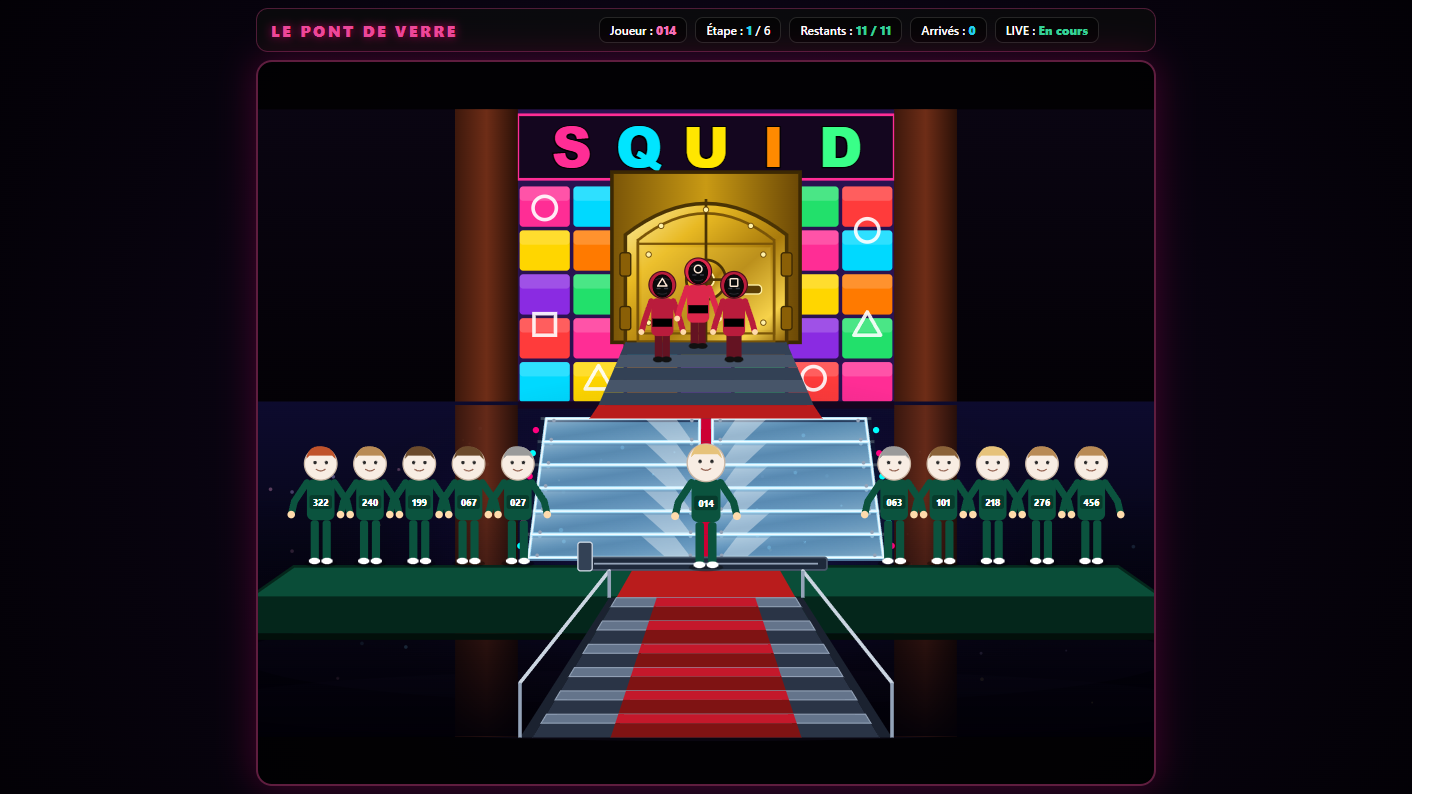
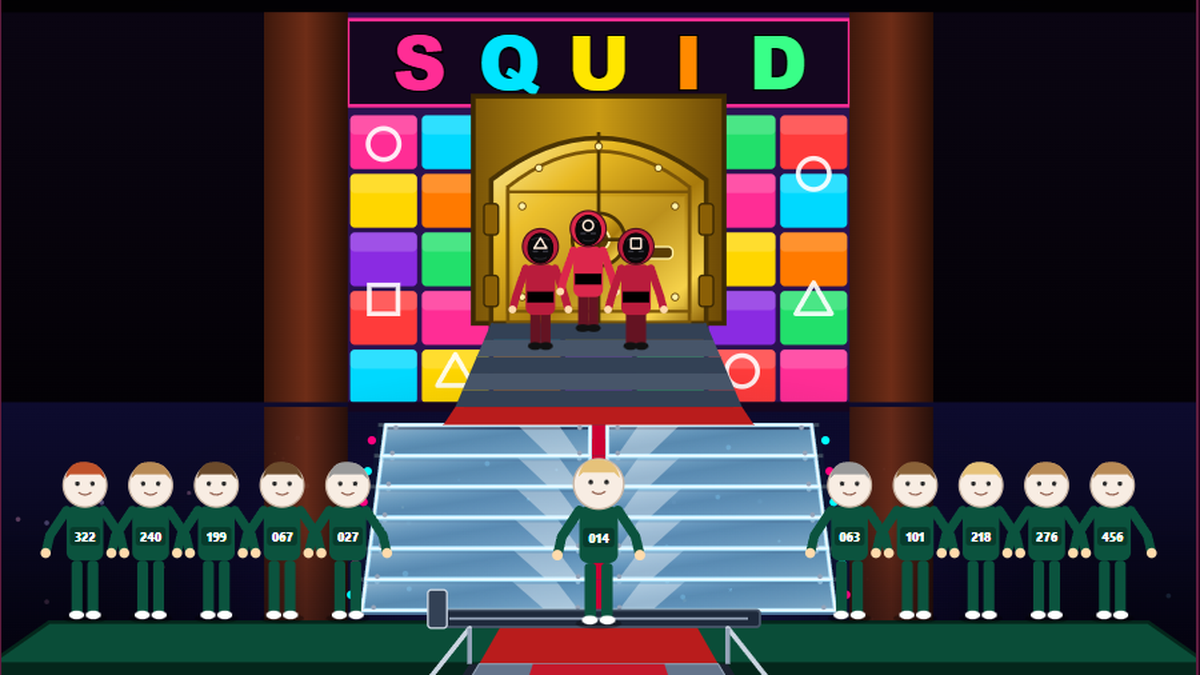
Mise à jour des captures de la vitrine
Recadre les aperçus des jeux concernés et supprime les anciennes illustrations obsolètes.

diff --git a/accueil.html b/accueil.html
@@ -981,10 +981,10 @@
                 <a class="game-card" data-game-id="/bobo-pusher.html" href="/bobo-pusher.html"><span class="game-number">NOUVEAU / LIVE</span><img loading="lazy" decoding="async" fetchpriority="low" class="game-visual custom-game-image" src="/images-vitrine/bobo-pusher.png" alt="Aperçu de Bobo Pusher et de son Top 3"><h3>Bobo Pusher</h3><p>Le direct fait tomber des pièces à l’effigie des joueurs, avec gorille animé et classement des gagnants.</p><span class="game-launch">JOUER ↗</span></a>
                 <a class="game-card" data-game-id="/coin-pusher-2000.html" href="/coin-pusher-2000.html"><span class="game-number">NOUVEAU / LIVE</span><img loading="lazy" decoding="async" fetchpriority="low" class="game-visual custom-game-image" src="/images-vitrine/coin-pusher-2000.png" alt="Capture de la machine 3D Coin Pusher 2000"><h3>Coin Pusher 2000</h3><p>La version 3D personnalisée de Coin Pusher 2000, avec connexion TikTok et pièces à l’effigie des viewers.</p><span class="game-launch">JOUER ↗</span></a>
                 <a class="game-card" data-game-id="/araignee.html" href="/araignee.html"><span class="game-number">NOUVEAU / LIVE</span><img loading="lazy" decoding="async" fetchpriority="low" class="game-visual game-art" src="/images-vitrine/araignee.png" alt="Capture de l’arène désertique et de l’araignée cybernétique"><h3>Araignée Cybernétique</h3><p>Rejoins la team des drones et combats le boss araignée dans un désert vivant.</p><span class="game-launch">JOUER ↗</span></a>
-                <a class="game-card" data-game-id="/apex-formula.html" href="/apex-formula.html"><span class="game-number">NOUVEAU / LIVE</span><img loading="lazy" decoding="async" fetchpriority="low" class="game-visual game-art" src="/images-vitrine/apex-formula.jpg" alt="Apex Formula : quatre voitures en course, chacune avec sa mini-carte et sa vitesse"><h3>Apex Formula</h3><p>Rejoins la course avec « go », accélère avec les cadeaux et suis jusqu’à quatre voitures à l’écran.</p><span class="game-launch">JOUER ↗</span></a>
+                <a class="game-card" data-game-id="/apex-formula.html" href="/apex-formula.html"><span class="game-number">NOUVEAU / LIVE</span><img loading="lazy" decoding="async" fetchpriority="low" class="game-visual game-art" src="/images-vitrine/apex-formula.jpg" alt="Apex Formula : une voiture en course sur le circuit"><h3>Apex Formula</h3><p>Rejoins la course avec « go », accélère avec les cadeaux et suis jusqu’à quatre voitures à l’écran.</p><span class="game-launch">JOUER ↗</span></a>
                 <a class="game-card" data-game-id="/rallye-neon.html" href="/rallye-neon.html"><span class="game-number">NOUVEAU / LIVE</span><img loading="lazy" decoding="async" fetchpriority="low" class="game-visual game-art" src="/images-vitrine/rallye-neon.png" alt="Circuit automobile urbain du Rallye Néon avec six voitures sur la grille"><h3>Rallye Néon</h3><p>Écris « go », double tes adversaires avec les cadeaux dès 1 pièce et choisis parmi trois circuits.</p><span class="game-launch">JOUER ↗</span></a>
                 <a class="game-card" data-game-id="/city-hunter-tiktok.html" href="/city-hunter-tiktok.html"><span class="game-number">NOUVEAU / LIVE</span><img loading="lazy" decoding="async" fetchpriority="low" class="game-visual game-art" src="/images-vitrine/city-hunter-tiktok.jpg" alt="City Hunter, duel TikTok dans une ville nocturne"><h3>City Hunter — TikTok Live Battle</h3><p>Choisis ton camp, attaque avec des cadeaux et remporte des étoiles dans le portefeuille Griffon Arcade.</p><span class="game-launch">JOUER ↗</span></a>
-                <a class="game-card" data-game-id="/pokefight-live.html" href="/pokefight-live.html"><span class="game-number">NOUVEAU / TIKTOK LIVE</span><img loading="lazy" decoding="async" fetchpriority="low" class="game-visual game-art" src="/images-vitrine/pokefight-live.png" alt="Capture de PokéFight Live sans panneau de configuration"><h3>PokéFight x TikTok Live</h3><p>Connecte ton live, capture des créatures avec les cadeaux et gagne des étoiles dans ton portefeuille Griffon Arcade.</p><span class="game-launch">JOUER ↗</span></a>
+                <a class="game-card" data-game-id="/pokefight-live.html" href="/pokefight-live.html"><span class="game-number">NOUVEAU / TIKTOK LIVE</span><img loading="lazy" decoding="async" fetchpriority="low" class="game-visual game-art" src="/images-vitrine/pokefight-live.png" alt="Pokémon sur leur arrière-plan, sans commandes ni panneau"><h3>PokéFight x TikTok Live</h3><p>Connecte ton live, capture des créatures avec les cadeaux et gagne des étoiles dans ton portefeuille Griffon Arcade.</p><span class="game-launch">JOUER ↗</span></a>
                 <a class="game-card" data-game-id="/grand-prix-pokemon.html" href="/grand-prix-pokemon.html"><span class="game-number">NOUVEAU / TIKTOK LIVE</span><img loading="lazy" decoding="async" fetchpriority="low" class="game-visual game-art" src="/images-vitrine/grand-prix-pokemon.png" alt="Capture de Grand Prix Poké sans panneau de configuration"><h3>Grand Prix Poké</h3><p>Choisis un Pokémon avec 1, 2 ou 3, puis fais-le courir avec les cadeaux TikTok.</p><span class="game-launch">JOUER ↗</span></a>
                 <a class="game-card" data-game-id="/coffre-incandescent.html" href="/coffre-incandescent.html"><span class="game-number">NOUVEAU / LIVE</span><img loading="lazy" decoding="async" fetchpriority="low" class="game-visual game-art" src="/images-vitrine/coffre-incandescent.png" alt="Capture du Coffre Incandescent sans panneau de configuration"><h3>Coffre Blindé TikTok</h3><p>Les pièces TikTok et étoiles RUN font progresser les paliers du coffre.</p><span class="game-launch">JOUER ↗</span></a>
                 <a class="game-card" data-game-id="/quartier-des-veilleurs.html" href="/quartier-des-veilleurs.html"><span class="game-number">NOUVEAU / LIVE</span><img loading="lazy" decoding="async" fetchpriority="low" class="game-visual game-art" src="/images-vitrine/quartier-des-veilleurs.webp" alt="Capture du Quartier des Veilleurs sans panneau de configuration"><h3>Le Quartier des Veilleurs</h3><p>Les cadeaux lancent des surprises chez tes amis et leur attribuent des étoiles d’arcade.</p><span class="game-launch">JOUER ↗</span></a>
@@ -994,7 +994,7 @@
                 <a class="game-card" href="/plinko.html"><span class="game-number">03 / CHANCE</span><svg class="game-visual game-image-placeholder game-art" viewBox="0 0 360 150" aria-hidden="true"><defs><linearGradient id="plinko-bg" x2="0" y2="1"><stop stop-color="#081728"/><stop offset="1" stop-color="#123a56"/></linearGradient><radialGradient id="plinko-ball"><stop stop-color="#fff"/><stop offset=".35" stop-color="#c9fbff"/><stop offset=".7" stop-color="#27d9ff"/><stop offset="1" stop-color="#2970ff"/></radialGradient></defs><rect width="360" height="150" fill="url(#plinko-bg)"/><path d="M84 12v105m32-105v105m32-105v105m32-105v105m32-105v105m32-105v105m32-105v105" stroke="#9cecff" stroke-opacity=".17" stroke-width="2"/><g fill="#86e8ff"><circle cx="100" cy="30" r="4"/><circle cx="132" cy="30" r="4"/><circle cx="164" cy="30" r="4"/><circle cx="196" cy="30" r="4"/><circle cx="228" cy="30" r="4"/><circle cx="260" cy="30" r="4"/><circle cx="84" cy="53" r="4"/><circle cx="116" cy="53" r="4"/><circle cx="148" cy="53" r="4"/><circle cx="180" cy="53" r="4"/><circle cx="212" cy="53" r="4"/><circle cx="244" cy="53" r="4"/><circle cx="276" cy="53" r="4"/><circle cx="100" cy="76" r="4"/><circle cx="132" cy="76" r="4"/><circle cx="164" cy="76" r="4"/><circle cx="196" cy="76" r="4"/><circle cx="228" cy="76" r="4"/><circle cx="260" cy="76" r="4"/></g><circle cx="187" cy="22" r="12" fill="url(#plinko-ball)"/><path d="M58 124h48v20H58zm48 0h48v20h-48zm48 0h48v20h-48zm48 0h48v20h-48zm48 0h48v20h-48z" fill="#0b1324" stroke="#47ddff" stroke-opacity=".5"/><text x="76" y="138" fill="#76dfff" font-size="10">x2</text><text x="170" y="138" fill="#fff" font-size="10">x10</text><text x="268" y="138" fill="#76dfff" font-size="10">x2</text></svg><h3>Gryphon Plinko</h3><p>Laisse tomber la bille et découvre où elle va atterrir.</p><span class="game-launch">JOUER ↗</span></a>
                 <a class="game-card" href="/aquarium-tiktok-live.html"><span class="game-number">04 / LIVE</span><svg class="game-visual game-image-placeholder game-art" viewBox="0 0 360 150" aria-hidden="true"><defs><linearGradient id="aqua-bg" x2="0" y2="1"><stop stop-color="#071f38"/><stop offset=".55" stop-color="#087b9a"/><stop offset="1" stop-color="#071a2d"/></linearGradient><linearGradient id="fish-fill" x2="0" y2="1"><stop stop-color="#b9fff2"/><stop offset="1" stop-color="#13b7d0"/></linearGradient></defs><rect width="360" height="150" fill="url(#aqua-bg)"/><path d="M0 35q40-13 80 0t80 0 80 0 120 0M0 47q40-13 80 0t80 0 80 0 120 0" fill="none" stroke="#a8f8ff" stroke-opacity=".28" stroke-width="2"/><g fill="#c5f5ff" opacity=".55"><circle cx="42" cy="72" r="3"/><circle cx="60" cy="91" r="2"/><circle cx="302" cy="67" r="3"/><circle cx="277" cy="91" r="2"/></g><path d="M70 83q29-25 60 0-31 25-60 0m60 0-18-15v30zm103-31q22-18 45 0-23 19-45 0m45 0-13-11v22z" fill="url(#fish-fill)"/><circle cx="83" cy="81" r="2.5" fill="#073248"/><circle cx="240" cy="50" r="2" fill="#073248"/><path d="M0 130q60-20 120 0t120 0 120 0v20H0z" fill="#062735"/><path d="M34 150q8-35 17 0m-4 0q12-51 24 0m224 0q7-34 15 0m-3 0q12-48 24 0" fill="none" stroke="#43e0a0" stroke-width="5"/><path d="M318 0v150" stroke="#d5fcff" stroke-opacity=".22" stroke-width="3"/></svg><h3>Aquarium Live</h3><p>Plonge dans un aquarium interactif au rythme du live.</p><span class="game-launch">JOUER ↗</span></a>
                 <a class="game-card" href="/coin-pusher-tiktok.html"><span class="game-number">05 / ARCADE</span><svg class="game-visual game-image-placeholder game-art" viewBox="0 0 360 150" aria-hidden="true"><defs><linearGradient id="pusher-bg" x2="0" y2="1"><stop stop-color="#17142e"/><stop offset="1" stop-color="#3b1649"/></linearGradient><radialGradient id="pusher-coin"><stop stop-color="#fff0a0"/><stop offset=".45" stop-color="#f8bd42"/><stop offset="1" stop-color="#9a4a28"/></radialGradient></defs><rect width="360" height="150" fill="url(#pusher-bg)"/><rect x="48" y="13" width="264" height="122" rx="12" fill="#211b38" stroke="#ad8fff" stroke-opacity=".7" stroke-width="3"/><rect x="64" y="25" width="232" height="83" rx="6" fill="#090f20"/><path d="M67 81h226" stroke="#7bf4ff" stroke-opacity=".6" stroke-width="3"/><g fill="url(#pusher-coin)" stroke="#ffe8a0" stroke-width="2"><circle cx="105" cy="70" r="13"/><circle cx="137" cy="58" r="13"/><circle cx="170" cy="74" r="13"/><circle cx="203" cy="57" r="13"/><circle cx="236" cy="72" r="13"/><circle cx="268" cy="54" r="13"/><circle cx="122" cy="91" r="12"/><circle cx="186" cy="92" r="12"/><circle cx="251" cy="92" r="12"/></g><path d="M75 111h210l-18 15H93z" fill="#aab4d2" stroke="#effaff" stroke-opacity=".6" stroke-width="2"/><circle cx="91" cy="126" r="5" fill="#ff4fa6"/><circle cx="269" cy="126" r="5" fill="#66f5ff"/><path d="M77 18v88m206-88v88" stroke="#fff" stroke-opacity=".12"/></svg><h3>Pousse les monstres</h3><p>Lâche des pièces, regarde les petits monstres tomber et pousse-les pour gagner des points.</p><span class="game-launch">JOUER ↗</span></a>
-                <a class="game-card" href="/jeu-foot-tiktok.html"><span class="game-number">06 / DÉFI</span><svg class="game-visual game-image-placeholder game-art" viewBox="0 0 360 150" aria-hidden="true"><defs><linearGradient id="field-bg" x2="0" y2="1"><stop stop-color="#0b402e"/><stop offset="1" stop-color="#071b1a"/></linearGradient><radialGradient id="stadium-light"><stop stop-color="#baffcd" stop-opacity=".75"/><stop offset="1" stop-color="#4cff9a" stop-opacity="0"/></radialGradient></defs><rect width="360" height="150" fill="url(#field-bg)"/><ellipse cx="244" cy="38" rx="140" ry="90" fill="url(#stadium-light)"/><path d="M0 121h360M180 0v150" stroke="#d2ffe0" stroke-opacity=".3" stroke-width="2"/><path d="M206 36h108v72H206zM222 49h80v59h-80z" fill="none" stroke="#e6fff1" stroke-opacity=".8" stroke-width="3"/><path d="M232 49v59m26-59v59m26-59v59" stroke="#ddffeb" stroke-opacity=".35"/><ellipse cx="113" cy="121" rx="45" ry="9" fill="#020b0a" opacity=".55"/><circle cx="111" cy="99" r="24" fill="#f3f6ed" stroke="#a5bba9" stroke-width="2"/><path d="m111 84 10 6-3 11h-12l-5-9zm-14 12 9 5-2 11m17-17 10 0m-29 8-12 8m31-8 8 8" fill="#17241e" stroke="#17241e" stroke-width="2"/><path d="M143 91q29-24 57-30" fill="none" stroke="#c1ff61" stroke-width="3" stroke-dasharray="5 7"/><path d="M15 18h42M15 18v25m330-25h-42m42 0v25" stroke="#caffd9" stroke-opacity=".3" stroke-width="2"/></svg><h3>Le Coup de Pied</h3><p>Vise juste et marque le meilleur score du live.</p><span class="game-launch">JOUER ↗</span></a>
+                <a class="game-card" data-game-id="/jeu-foot-tiktok.html" href="/jeu-foot-tiktok.html"><span class="game-number">06 / DÉFI</span><img loading="lazy" decoding="async" fetchpriority="low" class="game-visual custom-game-image game-art" src="/images-vitrine/coup-de-pied.webp" alt="Le nouveau joueur du Coup de Pied face au ballon sur le terrain"><h3>Le Coup de Pied</h3><p>Vise juste et marque le meilleur score du live.</p><span class="game-launch">JOUER ↗</span></a>
                 <a class="game-card" href="/coffres"><span class="game-number">07 / TRÉSOR</span><svg class="game-visual game-image-placeholder game-art" viewBox="0 0 360 150" aria-hidden="true"><defs><linearGradient id="chest-bg" x2="0" y2="1"><stop stop-color="#15122a"/><stop offset="1" stop-color="#3b241a"/></linearGradient><linearGradient id="chest-gold" x2="0" y2="1"><stop stop-color="#ffe7a0"/><stop offset=".45" stop-color="#c9852e"/><stop offset="1" stop-color="#603019"/></linearGradient><radialGradient id="treasure-light"><stop stop-color="#ffd56b" stop-opacity=".7"/><stop offset="1" stop-color="#ff9d32" stop-opacity="0"/></radialGradient></defs><rect width="360" height="150" fill="url(#chest-bg)"/><ellipse cx="184" cy="80" rx="145" ry="96" fill="url(#treasure-light)"/><path d="M0 127q90-32 180 0t180 0v23H0z" fill="#19131a"/><g transform="translate(73 46)"><path d="M0 38Q4 2 48 2t48 36v47H0z" fill="#674021" stroke="#e4b25d" stroke-width="4"/><path d="M-5 36h106v21H-5z" fill="url(#chest-gold)" stroke="#ffe4a0" stroke-width="3"/><path d="M42 37h16v32H42z" fill="#f4d586"/><circle cx="50" cy="47" r="3" fill="#49301b"/><path d="M6 68h84v13H6z" fill="#8c5727"/></g><g transform="translate(205 54) scale(.76)"><path d="M0 38Q4 2 48 2t48 36v47H0z" fill="#392d68" stroke="#d1b4ff" stroke-width="4"/><path d="M-5 36h106v21H-5z" fill="#9477ce" stroke="#e4d1ff" stroke-width="3"/><path d="M42 37h16v32H42z" fill="#f5dc95"/><circle cx="50" cy="47" r="3" fill="#49301b"/></g><path d="m164 31 4 12m-24 2 9 9m41-21-4 12m22 6-10 9" stroke="#fff0ba" stroke-width="3" stroke-linecap="round"/></svg><h3>Les Coffres</h3><p>Choisis ton coffre, évite le piège et découvre le trésor.</p><span class="game-launch">JOUER ↗</span></a>
                 <a class="game-card" href="/inedexd.html"><span class="game-number">08 / MYSTÈRE</span><svg class="game-visual game-image-placeholder game-art" viewBox="0 0 360 150" aria-hidden="true"><defs><linearGradient id="boxes-bg" x2="0" y2="1"><stop stop-color="#09172d"/><stop offset="1" stop-color="#20123a"/></linearGradient><linearGradient id="box-face" x2="0" y2="1"><stop stop-color="#4973a3"/><stop offset="1" stop-color="#172642"/></linearGradient><radialGradient id="box-core"><stop stop-color="#fff"/><stop offset=".3" stop-color="#aef8ff"/><stop offset="1" stop-color="#40aaff" stop-opacity="0"/></radialGradient></defs><rect width="360" height="150" fill="url(#boxes-bg)"/><path d="M0 122 180 82l180 40v28H0z" fill="#11182a"/><g stroke="#8ccfff" stroke-opacity=".5" stroke-width="2"><path d="m47 77 39-14 39 14-39 15z"/><path d="m86 63 39-14 39 14-39 15z"/><path d="m125 77 39-14 39 14-39 15z"/><path d="m164 63 39-14 39 14-39 15z"/><path d="m203 77 39-14 39 14-39 15z"/><path d="m242 63 39-14 39 14-39 15z"/></g><g fill="url(#box-face)" stroke="#76d8ff" stroke-width="2"><path d="m47 77 39 15v35l-39-17z"/><path d="m86 92 39-15v33l-39 17z"/><path d="m86 63 39 15v35l-39-17z"/><path d="m125 78 39-15v34l-39 16z"/><path d="m164 63 39 15v35l-39-17z"/><path d="m203 78 39-15v34l-39 16z"/><path d="m242 63 39 15v35l-39-17z"/><path d="m281 78 39-15v34l-39 16z"/></g><circle cx="203" cy="93" r="20" fill="url(#box-core)"/><path d="M180 25h42m-21-21v42" stroke="#82eaff" stroke-opacity=".45" stroke-width="2"/></svg><h3>Les Six Boîtes</h3><p>Un jeu de choix, de surprises et de boîtes à révéler.</p><span class="game-launch">JOUER ↗</span></a>
                 <a class="game-card" data-game-id="/coin-pusher-3d-preview.html" href="/coin-pusher-3d-preview.html"><span class="game-number">13 / ARCADE</span><img loading="lazy" decoding="async" fetchpriority="low" class="game-visual custom-game-image" src="images-vitrine/astra-push.webp" alt="Aperçu du jeu Astra-Push"><h3>Astra-Push</h3><p>Les cadeaux du direct font tomber des pièces à l’effigie de tes viewers.</p><span class="game-launch">JOUER ↗</span></a>
@@ -1025,7 +1025,7 @@
                 <a class="game-card" data-game-id="/puissance-4-tiktok.html" href="/puissance-4-tiktok.html"><span class="game-number">NOUVEAU / LIVE</span><img loading="lazy" decoding="async" fetchpriority="low" class="game-visual custom-game-image" src="images-vitrine/puissance-4-apercu.svg" alt="Aperçu du jeu Puissance 4 TikTok Live"><h3>Puissance 4 TikTok Live</h3><p>Choisis une colonne dans le chat et envoie un cadeau pour jouer. Aligne quatre jetons, deviens VIP et gagne 4 étoiles.</p><span class="game-launch">JOUER ↗</span></a>
                 <a class="game-card" data-game-id="/arene-combattants.html" href="/arene-combattants.html"><span class="game-number">NOUVEAU / LIVE</span><img loading="lazy" decoding="async" fetchpriority="low" class="game-visual custom-game-image" src="images-vitrine/arene-combattants.webp" alt="Aperçu du jeu L'Arène des Combattants TikTok"><h3>L'Arène des Combattants TikTok</h3><p>Tir à la corde puis course d'obstacles de 100 m : les cadeaux font tirer et sauter vos combattants.</p><span class="game-launch">JOUER ↗</span></a>
                 <a class="game-card" data-game-id="/tir-a-la-corde.html" href="/tir-a-la-corde.html"><span class="game-number">NOUVEAU / LIVE</span><img loading="lazy" decoding="async" fetchpriority="low" class="game-visual custom-game-image" src="images-vitrine/tir-a-la-corde.png" alt="Capture du jeu Tir à la corde"><h3>Tir à la corde</h3><p>Choisis VERT ou ROSE dans le chat : tes cadeaux font tirer la corde pour ton équipe.</p><span class="game-launch">JOUER ↗</span></a>
-                <a class="game-card" data-game-id="/pont-de-verre.html" href="/pont-de-verre.html"><span class="game-number">NOUVEAU / LIVE</span><img loading="lazy" decoding="async" fetchpriority="low" class="game-visual custom-game-image" src="images-vitrine/pont-de-verre.png" alt="Capture du jeu Le Pont de Verre"><h3>Le Pont de Verre</h3><p>Choisis un joueur, puis sélectionne gauche ou droite à chaque étape pour traverser le pont.</p><span class="game-launch">JOUER ↗</span></a>
+                <a class="game-card" data-game-id="/pont-de-verre.html" href="/pont-de-verre.html"><span class="game-number">NOUVEAU / LIVE</span><img loading="lazy" decoding="async" fetchpriority="low" class="game-visual custom-game-image" src="images-vitrine/pont-de-verre.png" alt="Capture panoramique du Pont de Verre en écran large"><h3>Le Pont de Verre</h3><p>Choisis un joueur, puis sélectionne gauche ou droite à chaque étape pour traverser le pont.</p><span class="game-launch">JOUER ↗</span></a>
                 <a class="game-card" data-game-id="/machine-cadeaux.html" href="/machine-cadeaux.html"><span class="game-number">NOUVEAU / LIVE</span><img loading="lazy" decoding="async" fetchpriority="low" class="game-visual custom-game-image" src="images-vitrine/machine-cadeaux.webp" alt="Aperçu de Machine à Cadeaux"><h3>Machine à Cadeaux</h3><p>Six symboles tournent sur une même ligne au-dessus du diamant : aligne-les pour devenir VIP.</p><span class="game-launch">JOUER ↗</span></a>
                 <a class="game-card" data-game-id="/machina-cadeau-circulaire.html" href="/machina-cadeau-circulaire.html"><span class="game-number">NOUVEAU / LIVE</span><img loading="lazy" decoding="async" fetchpriority="low" class="game-visual custom-game-image" src="images-vitrine/machine-cadeaux-circulaire.webp" alt="Aperçu de Machina Cadeau circulaire"><h3>Machina Cadeau circulaire</h3><p>Six roues de cadeaux tournent en cercle autour du personnage : aligne-les pour devenir VIP.</p><span class="game-launch">JOUER ↗</span></a>
                 <a class="game-card" data-game-id="/machine-a-pinces.html" href="/machine-a-pinces.html"><span class="game-number">NOUVEAU / LIVE</span><img loading="lazy" decoding="async" fetchpriority="low" class="game-visual custom-game-image" src="images-vitrine/machine-a-pinces.webp" alt="Aperçu du jeu Machine à Pinces Gryphon Agency"><h3>Machine à Pinces</h3><p>Chaque cadeau fait descendre la pince : attrape une peluche et gagne des étoiles.</p><span class="game-launch">JOUER ↗</span></a>

diff --git a/serveur.js b/serveur.js
@@ -3376,7 +3376,6 @@ const server = http.createServer((req, res) => {
         ['/images-vitrine/tower-up.png', [path.join(__dirname, 'images-vitrine', 'tower-up.png'), 'image/png']],
         ['/images-vitrine/tir-a-la-corde.svg', [path.join(__dirname, 'images-vitrine', 'tir-a-la-corde.svg'), 'image/svg+xml; charset=utf-8']],
         ['/images-vitrine/tir-a-la-corde.png', [path.join(__dirname, 'images-vitrine', 'tir-a-la-corde.png'), 'image/png']],
-        ['/images-vitrine/pont-de-verre.svg', [path.join(__dirname, 'images-vitrine', 'pont-de-verre.svg'), 'image/svg+xml; charset=utf-8']],
         ['/images-vitrine/pont-de-verre.png', [path.join(__dirname, 'images-vitrine', 'pont-de-verre.png'), 'image/png']],
         ['/images-vitrine/noyau-des-abysses.svg', [path.join(__dirname, 'images-vitrine', 'noyau-des-abysses.svg'), 'image/svg+xml; charset=utf-8']],
         ['/images-vitrine/noyau-des-abysses.png', [path.join(__dirname, 'images-vitrine', 'noyau-des-abysses.png'), 'image/png']],
